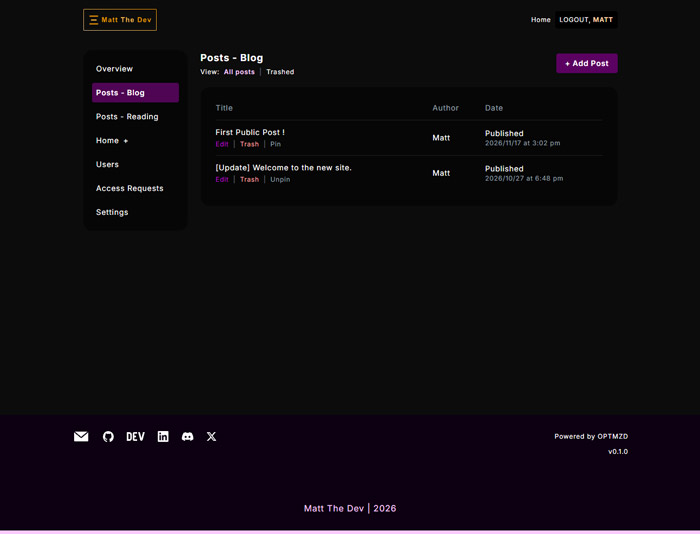
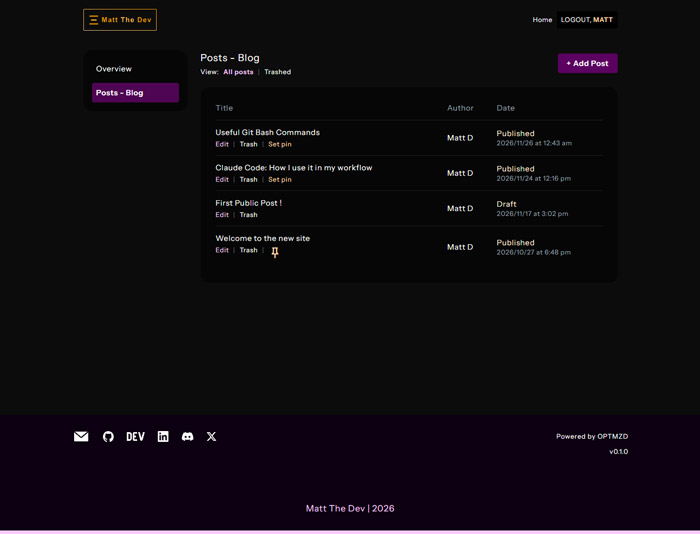
Refresh the screenshots and adjust the login page styles
- Retake the README screenshots for the home, post list, single post,
  reading list and admin blog pages
- Remove the edit user and settings screenshots from the README, since
  those pages are hidden for launch
- Delete the unused admin_edit_user.jpg
- Make the login page logo the same height as the public header logo
- Change the login button colors to dark purple with an extra-light
  purple hover
- Lighten the font weight of the blog form heading and the reading
  post titles
- Add letter spacing to the More and Read more links

diff --git a/admin/posts_blog.php b/admin/posts_blog.php
@@ -95,7 +95,7 @@ require __DIR__ . '/../includes/head.php';
                                                 <?php csrf_field(); ?>
 
                                                 <input type="hidden" name="id" value="<?= htmlspecialchars($post['id']) ?>">
-                                                <button type="submit" class="text-green-400 hover:text-white transition-colors" aria-label="Restore: <?= htmlspecialchars($post['title']) ?>">Restore</button>
+                                                <button type="submit" class="text-xlight-purple hover:text-white transition-colors cursor-pointer" aria-label="Restore: <?= htmlspecialchars($post['title']) ?>">Restore</button>
 
                                             </form>
 
@@ -106,18 +106,15 @@ require __DIR__ . '/../includes/head.php';
                                                 <?php csrf_field(); ?>
 
                                                 <input type="hidden" name="id" value="<?= htmlspecialchars($post['id']) ?>">
-                                                <button type="submit" data-confirm="Are you sure you want to DELETE this post?" class="text-red-300 hover:text-white transition-colors" aria-label="Delete permanently: <?= htmlspecialchars($post['title']) ?>">Delete</button>
+                                                <button type="submit" data-confirm="Are you sure you want to DELETE this post?" class="text-orange-200 hover:text-white transition-colors cursor-pointer" aria-label="Delete permanently: <?= htmlspecialchars($post['title']) ?>">Delete</button>
 
                                             </form>
-
-                                            
-
                                         </div>    
 
                                         <?php else: ?>
 
                                         <div class="flex gap-2 text-xs mt-1">
-                                            <a href="<?= BASE_URL ?>admin/posts_blog_form.php?id=<?= htmlspecialchars($post['id']) ?>" class="text-light-purple hover:text-white transition-colors">Edit</a>
+                                            <a href="<?= BASE_URL ?>admin/posts_blog_form.php?id=<?= htmlspecialchars($post['id']) ?>" class="text-xlight-purple hover:text-white transition-colors">Edit</a>
 
                                             <span aria-hidden="true" class="text-gray-500">|</span>
 
@@ -126,7 +123,7 @@ require __DIR__ . '/../includes/head.php';
                                                 <?php csrf_field(); ?>
 
                                                 <input type="hidden" name="id" value="<?= htmlspecialchars($post['id']) ?>">
-                                                <button type="submit" class="text-red-300 hover:text-white transition-colors" aria-label="Trash: <?= htmlspecialchars($post['title']) ?>">Trash</button>
+                                                <button type="submit" class="text-white hover:text-red-300 transition-colors cursor-pointer" aria-label="Trash: <?= htmlspecialchars($post['title']) ?>">Trash</button>
 
                                             </form>
 
@@ -143,7 +140,10 @@ require __DIR__ . '/../includes/head.php';
                                                     <input type="hidden" name="action" value="<?= $post["pinned_at"] ? 'unpin' : 'pin' ?>">
                                                     <input type="hidden" name="id" value="<?= $post["id"] ?>">
 
-                                                    <button type="submit" class="text-gray-400 hover:text-white transition-colors" aria-label="<?= $post["pinned_at"] ? 'Unpin' : 'Pin' ?>: <?= htmlspecialchars($post['title']) ?>"><?= $post["pinned_at"] ? 'Unpin' : 'Pin' ?></button>
+                                                    <button type="submit" class="text-orange-200 hover:text-white transition-colors cursor-pointer" aria-label="<?= $post["pinned_at"] ? 'Unpin' : 'Set pin' ?>: <?= htmlspecialchars($post['title']) ?>">
+
+                                                    <?= $post["pinned_at"] ? '<span class="material-symbols-outlined" aria-hidden="true">keep</span>' : 'Set pin' ?>
+                                                    </button>
 
                                                 </form>
                                             <?php endif; ?>
@@ -155,7 +155,7 @@ require __DIR__ . '/../includes/head.php';
                                     </td>
                                     <td class="py-3 pr-4"><?= htmlspecialchars($post['display_name'] ?? 'Unknown') ?></td>
                                     <td class="py-3">
-                                        <p><?= htmlspecialchars(ucfirst($post['status'])) ?></p>
+                                        <p class="text-orange-100"><?= htmlspecialchars(ucfirst($post['status'])) ?></p>
                                         <p class="text-xs text-gray-400"><?= date('Y/m/d \a\t g:i a', strtotime($post['created_at'])) ?></p>
                                     </td>
                                 </tr>

diff --git a/post_previews_reading.php b/post_previews_reading.php
@@ -19,7 +19,7 @@ require __DIR__ . '/includes/head.php';
               <div class="flex flex-col mt-4 m-auto pb-17">
                   
                   <div class="">
-                    <h2 class="font-semibold text-xl text-xlight-purple hover:text-white tracking-wider">
+                    <h2 class="font-normal text-xl text-xlight-purple hover:text-white tracking-wider">
                       <a href="https://abraham-hicks.com/the-art-of-allowing-book/" target="_blank">
                       <span class="material-symbols-outlined text-white">
                         call_made
@@ -42,7 +42,7 @@ require __DIR__ . '/includes/head.php';
                   </p>
                   
                   <div class="flex flex-row gap-2 justify-end items-center mt-5">
-                     <a href="https://abraham-hicks.com/the-art-of-allowing-book/"  aria-label="Read more: The Art of Allowing" target="_blank" class="flex text-xlight-purple hover:text-white gap-1">Read more 
+                     <a href="https://abraham-hicks.com/the-art-of-allowing-book/"  aria-label="Read more: The Art of Allowing" target="_blank" class="flex text-xlight-purple hover:text-white gap-1 tracking-wider">Read more 
                     <span class="material-symbols-outlined text-white">
                         call_made
                     </span> 

diff --git a/admin/posts_blog_form.php b/admin/posts_blog_form.php
@@ -198,7 +198,7 @@ require __DIR__ . '/../includes/head.php';
             <main class="flex-1 min-w-0 mt-5">
 
                 <div class="flex items-center justify-between mb-5">
-                    <h1 class="font-bold text-lg tracking-wider"><?= $isEdit ? 'Edit' : 'New' ?> - Blog Post</h1>
+                    <h1 class="font-normal text-lg tracking-wider"><?= $isEdit ? 'Edit' : 'New' ?> - Blog Post</h1>
                     <a href="<?= BASE_URL ?>admin/posts_blog.php" class="inline-flex items-center gap-1 bg-dark-purple hover:bg-light-purple/80 tracking-wider transition-colors text-sm font-semibold px-4 py-2 rounded-sm">
                         <span aria-hidden="true">x</span> Close
                     </a>

diff --git a/post_previews_writing.php b/post_previews_writing.php
@@ -38,7 +38,7 @@ require __DIR__ . '/includes/head.php';
             <p class="text-base mt-4 max-w-lg tracking-wider">
               <?= htmlspecialchars(post_excerpt($post["body"], 185)) ?> 
             </p>
-            <a href="<?= BASE_URL ?>post_writing.php?id=<?= $post["id"] ?>" aria-label="More: <?= htmlspecialchars($post["title"]) ?>" class="text-xlight-purple hover:text-white mt-5 self-start">More</a>
+            <a href="<?= BASE_URL ?>post_writing.php?id=<?= $post["id"] ?>" aria-label="More: <?= htmlspecialchars($post["title"]) ?>" class="text-xlight-purple hover:text-white mt-5 self-start tracking-wider">More</a>
           </div>
         </section>
         <?php endforeach; ?>

diff --git a/includes/auth_header.php b/includes/auth_header.php
@@ -13,7 +13,7 @@ $headerMessage = $headerMessage ?? '';
 
             <div class="mb-10">
               <a href="<?= BASE_URL ?>" class="inline-block bg-black/50 rounded-md">
-                <img class="block transition hover:filter-[brightness(0)_saturate(100%)_invert(85%)_sepia(40%)_saturate(600%)_hue-rotate(320deg)]" src="<?= BASE_URL ?>public/images/logo.svg" alt="Matt The Dev Logo" />
+                <img class="h-10 block transition hover:filter-[brightness(0)_saturate(100%)_invert(85%)_sepia(40%)_saturate(600%)_hue-rotate(320deg)]" src="<?= BASE_URL ?>public/images/logo.svg" alt="Matt The Dev Logo" />
               </a>
             </div>
 

diff --git a/admin/login.php b/admin/login.php
@@ -65,7 +65,7 @@ require __DIR__ . '/../includes/head.php';
 
                     </div>
                     
-                    <button class="bg-light-purple hover:bg-dark-purple transition-colors w-full p-2 pb-3 rounded-full cursor-pointer">Login</button>
+                    <button class="bg-dark-purple hover:bg-xlight-purple transition-colors w-full p-2 pb-3 rounded-full cursor-pointer">Login</button>
 
                     <?php // Hidden until request_access.php saves requests. Change false to true to show it again ?>
                     <?php if (false): ?>

diff --git a/index.php b/index.php
@@ -169,7 +169,7 @@ require __DIR__ . '/includes/head.php';
                     <div class="flex flex-row gap-1">
 
                       <?php if ($recentPost["pinned_at"]): ?>
-                      <span class="material-symbols-outlined" aria-hidden="true">
+                      <span class="material-symbols-outlined text-orange-200" aria-hidden="true">
                         keep
                       </span>
                       <span class="sr-only">Pinned:</span>

diff --git a/README.md b/README.md
@@ -87,11 +87,3 @@ width="700">
 
 <img src="public/images/admin_posts_blog_edit.jpg" alt="Admin blog post form edit" width="700">
 
-&nbsp;
-
-<img src="public/images/admin_edit_user.jpg" alt="Admin edit user page" width="700">
-
-&nbsp;
-
-<img src="public/images/admin_settings.jpg" alt="Admin settings page" width="700">
-
